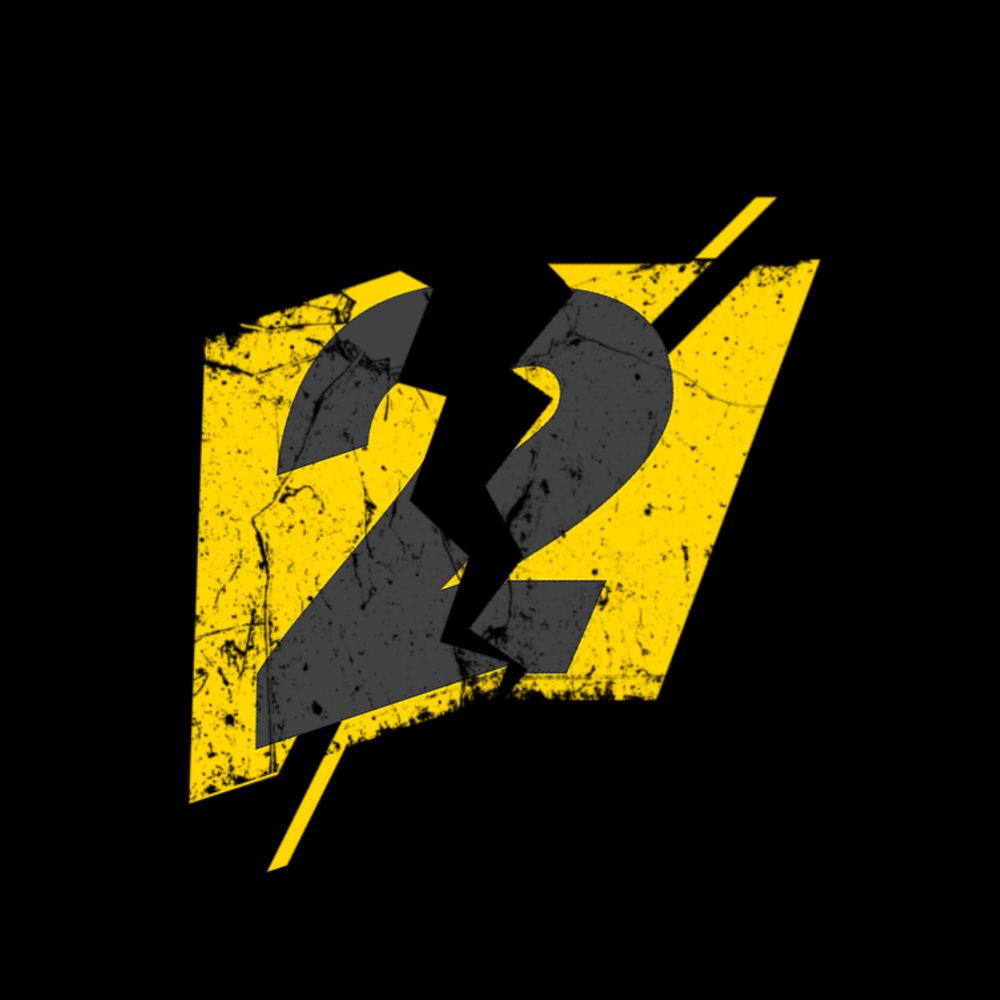
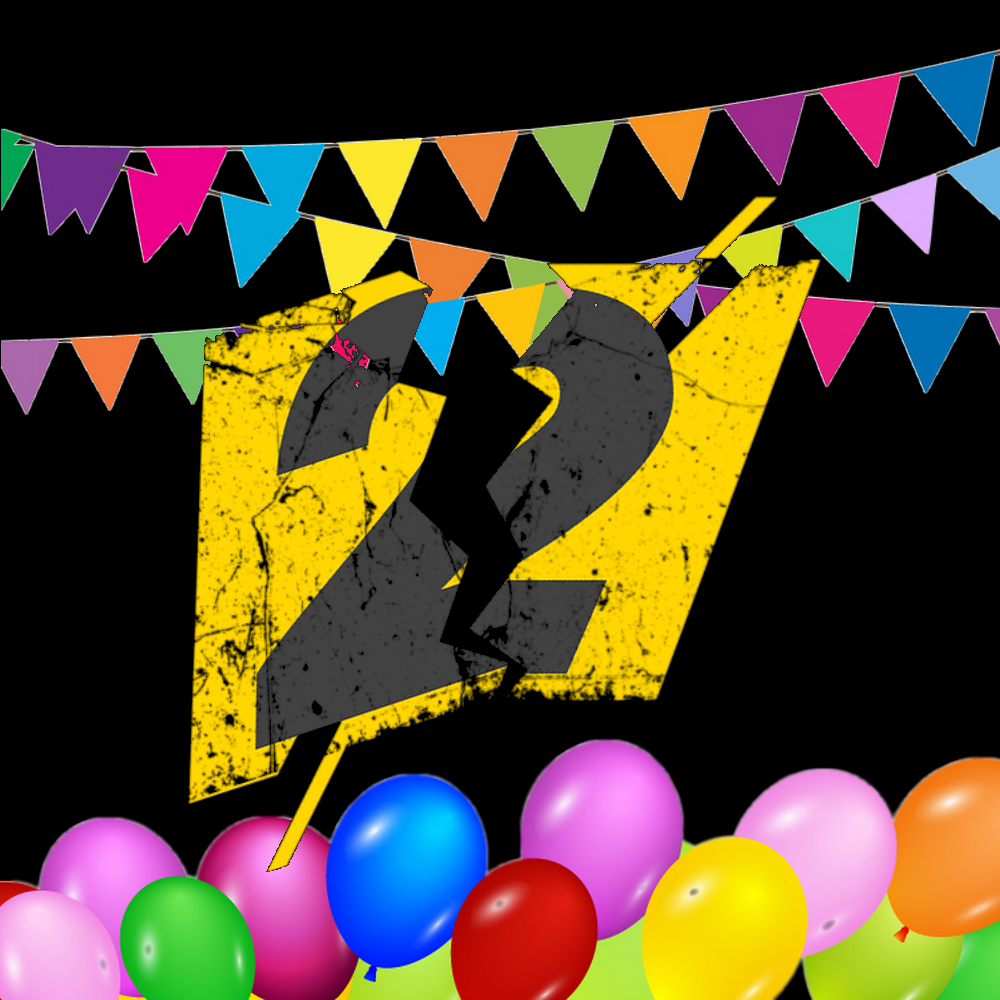
Fixed version comparison bug + added anniversary splashscreen

diff --git a/BrokenTC2/Update/UpdateHandler.cpp b/BrokenTC2/Update/UpdateHandler.cpp
@@ -226,7 +226,7 @@ void UpdateHandler::onLatestUpdateRetrieved(std::optional<ReleaseInfo> releaseIn
     qInfo() << " --- Update status ---";
     qInfo().noquote().nospace() << "\tRunning version: " << m_kRunningVersion;
     qInfo().noquote().nospace() << "\tDistant version: " << releaseInfo.versionAvailable;
-    if(m_kRunningVersion > releaseInfo.versionAvailable)
+    if(m_kRunningVersion >= releaseInfo.versionAvailable)
     {
         qInfo().noquote().nospace() << "\tNo installation candidate found (distant version <= running version)";
         showInfoMessage(InfoBoxMsgType::kOk,tr("You are already running the latest available version"));
@@ -239,7 +239,7 @@ void UpdateHandler::onLatestUpdateRetrieved(std::optional<ReleaseInfo> releaseIn
     }
 
 
-    qInfo().noquote().nospace() << "\tInstallation candidate found (distant version <= running version)";
+    qInfo().noquote().nospace() << "\tInstallation candidate found (distant version > running version)";
     showInfoMessage(InfoBoxMsgType::kWarning,tr("A newer version is available, you should install it"));
 
     setState(States::kReleaseInfoRetrieved);

diff --git a/BrokenTC2/Libs/SimpleUpdater/libSimpleUpdater/UpdtGlobal.cpp b/BrokenTC2/Libs/SimpleUpdater/libSimpleUpdater/UpdtGlobal.cpp
@@ -23,6 +23,24 @@ bool operator>(const Version& r,const Version& d)
     return false;
 }
 
+bool operator>=(const Version& r,const Version& d)
+{
+    if(r.major >= d.major)
+        return true;
+    else
+        return false;
+
+    if(r.minor >= d.minor)
+        return true;
+    else
+        return false;
+
+
+    if(r.patch >= d.patch)
+        return true;
+    return false;
+}
+
 
 std::optional<ReleaseInfo> getLatestReleaseInfo(QJsonDocument doc){
 

diff --git a/BrokenTC2/Libs/SimpleUpdater/libSimpleUpdater/UpdtGlobal.hpp b/BrokenTC2/Libs/SimpleUpdater/libSimpleUpdater/UpdtGlobal.hpp
@@ -62,6 +62,7 @@ std::optional<Version> getLatestReleaseVersion(const QJsonDocument& doc);
 
 
 bool operator>(const Version& v0,const Version& v1);
+bool operator>=(const Version& v0,const Version& v1);
 inline
 QDebug operator<<(QDebug dbg,const Version& v){
     dbg.nospace() << v.major << "." << v.minor << "." << v.patch;
